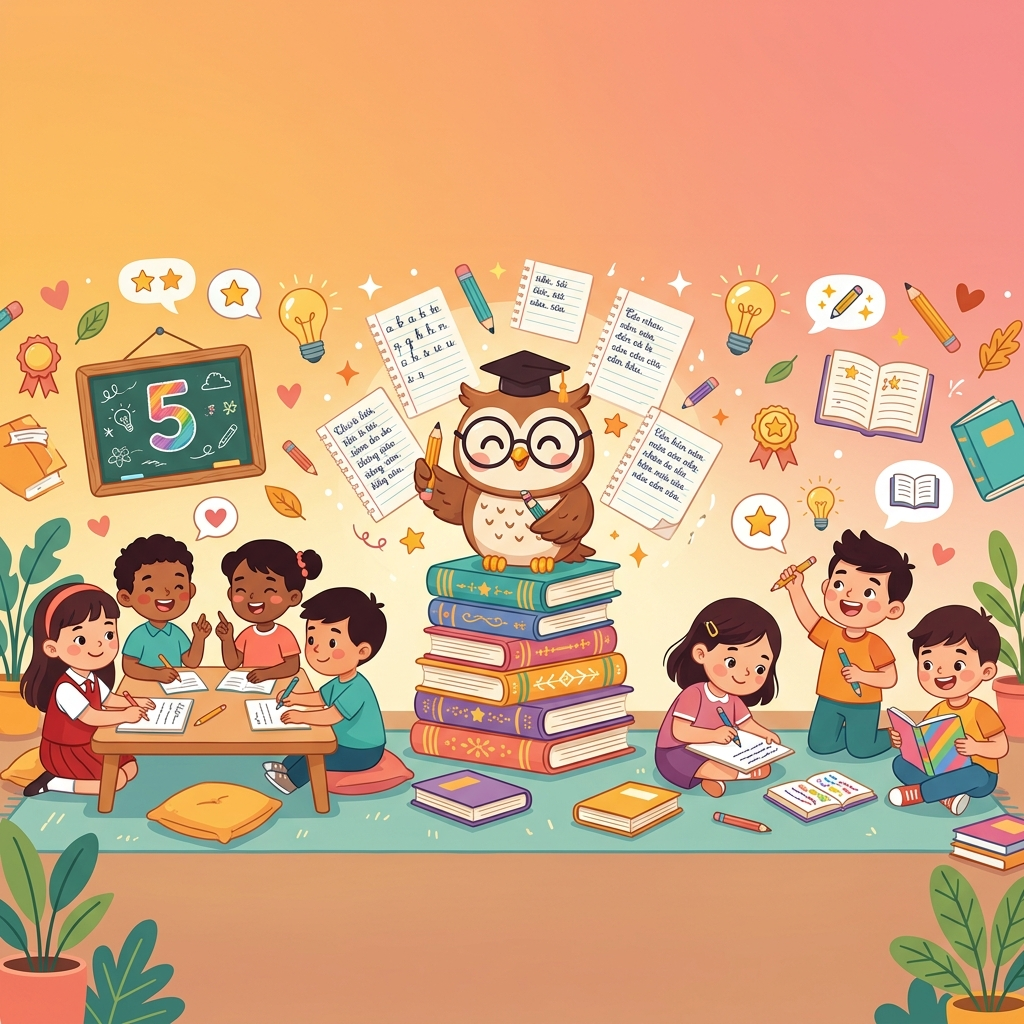
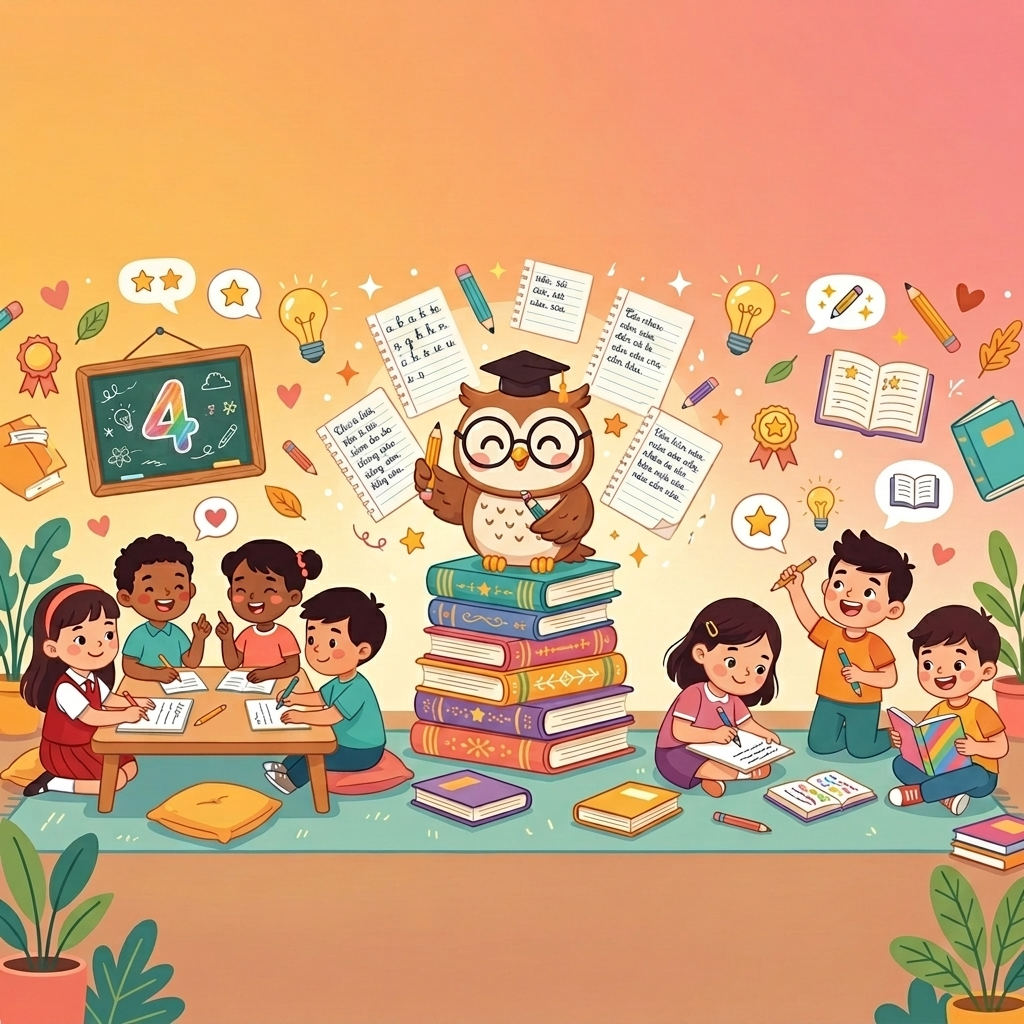
Add files via upload

diff --git a/src/App.tsx b/src/App.tsx
@@ -1219,7 +1219,7 @@ export default function App() {
             <div className="hidden sm:block h-[180px] w-[320px] shrink-0">
               <img 
                 src="/hero-banner.png" 
-                alt="VietMaster 5 - Cú Văn và các bạn nhỏ" 
+                alt="VietMaster 4 - Cú Văn và các bạn nhỏ" 
                 className="h-full w-full object-cover object-center rounded-r-2xl"
               />
             </div>